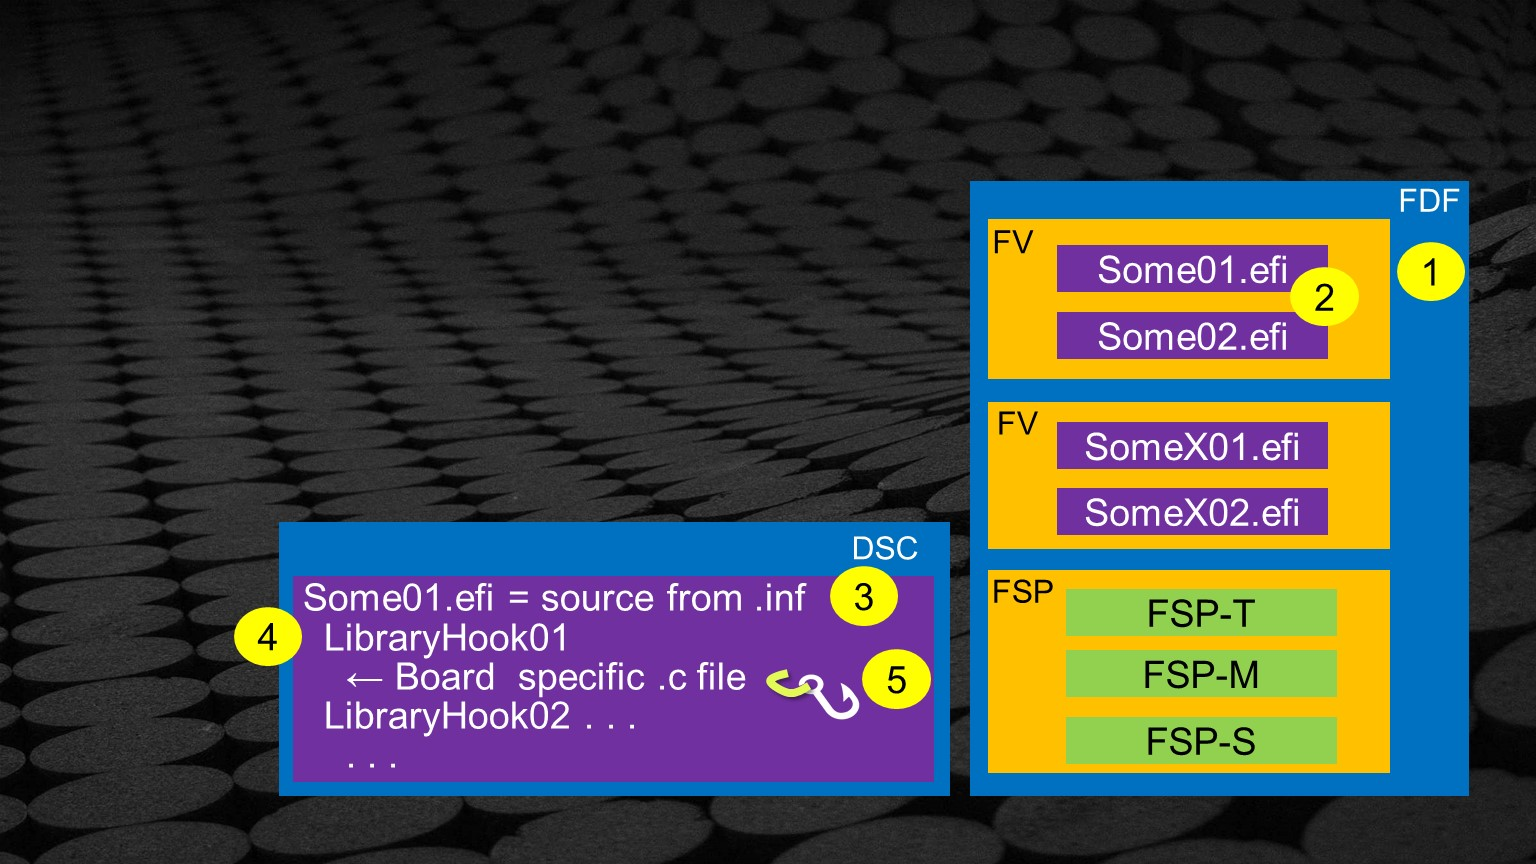
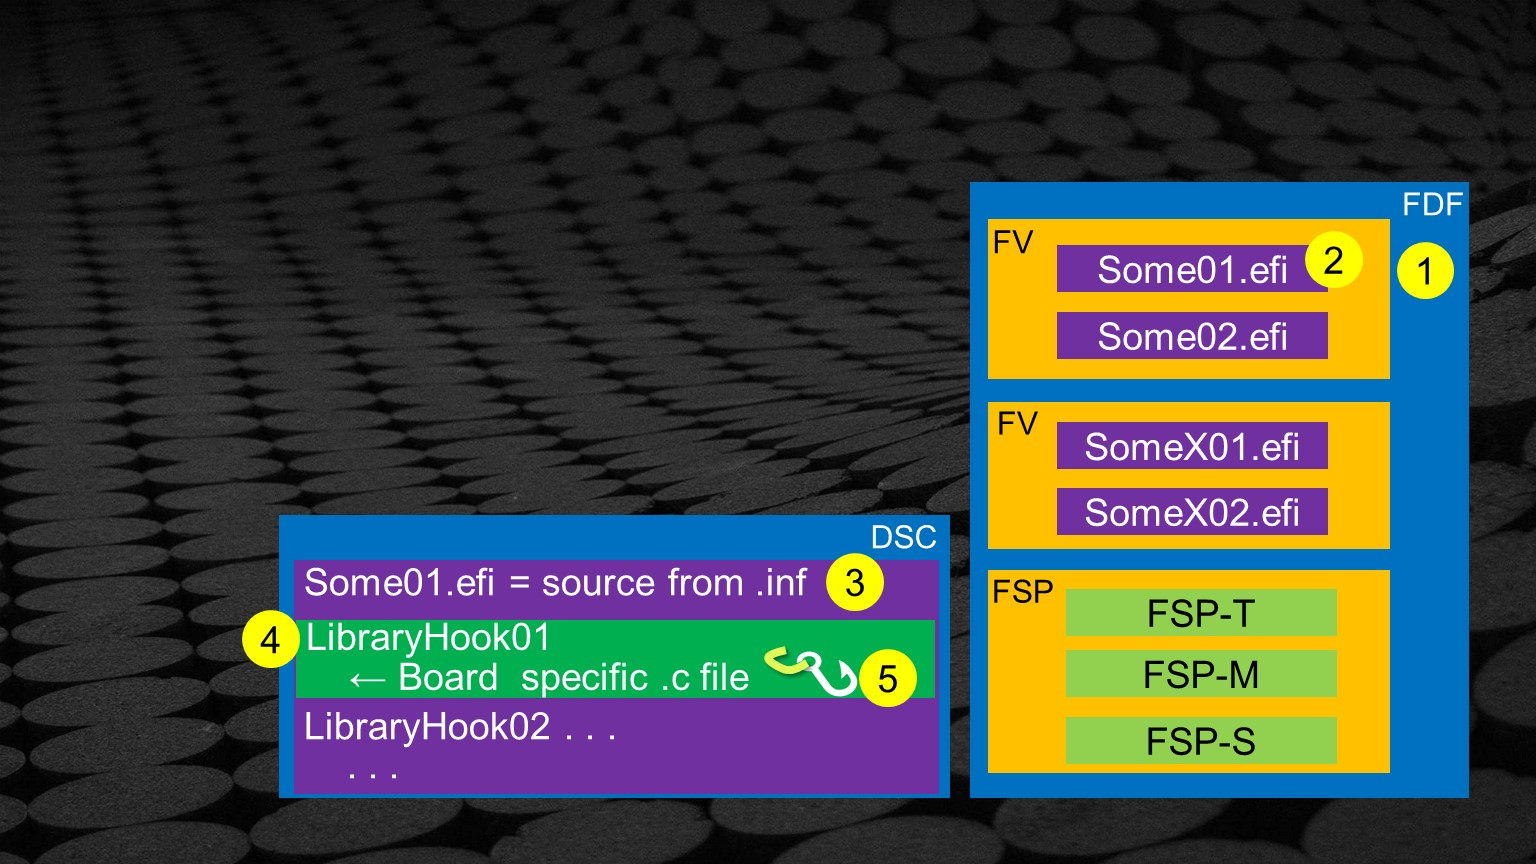
Signed-off-by: Laurie0131 <laurie.jarlstrom@intel.com>

Changed region(s): [[0.125, 0.5938, 0.9375, 0.9375], [0.8438, 0.25, 0.9688, 0.375], [0.9062, 0.2188, 0.9688, 0.25]]

diff --git a/PITCHME.md b/PITCHME.md
@@ -1438,11 +1438,11 @@ The Stage I modules will be combined into FVs to make up the Stage I components
 @title[Investigate the FDF File then DSC]
 <p align="right"><span class="gold" >@size[1.1em](<b> Investigate the FDF File then DSC</b>)</span><span style="font-size:0.75em;" ></span></p>
 
-@snap[north-west span-70 ]
+@snap[north-west span-68 ]
 <br>
 <br>
 <p style="line-height:70%" align="left" ><span style="font-size:0.85em; ">
-<b>Porting Process per Stage Find and update platform hooks
+<b>Porting Process per Stage Find and update platform hooks</b>
 </span></p>
 
 <ul style="list-style-type:none; line-height:0.7;">
@@ -1463,8 +1463,8 @@ Once the library hook is found, update that platform hook function for the board
 ### Porting Process per Stage Find: 
 1. Locate FVs for each stage in the FDF file
 2. find Modules for each FV contents in the FDF
-3. Find Module Locations in the platform DSC file
-4. Find Platform Porting Libraries per Module in th DSC
+3. Find Module Locations in the platform DSC file - Should point to an inf file that is probably in the Common i.e. MinplatformPkg or edk2 modules
+4. Find Platform Porting Libraries per Module in th DSC - library could be in minPlatform with hook into the platform specific code.
 5. Update the Hook Function for Board,  should be in a .c file coorsponding to the library
 
 
